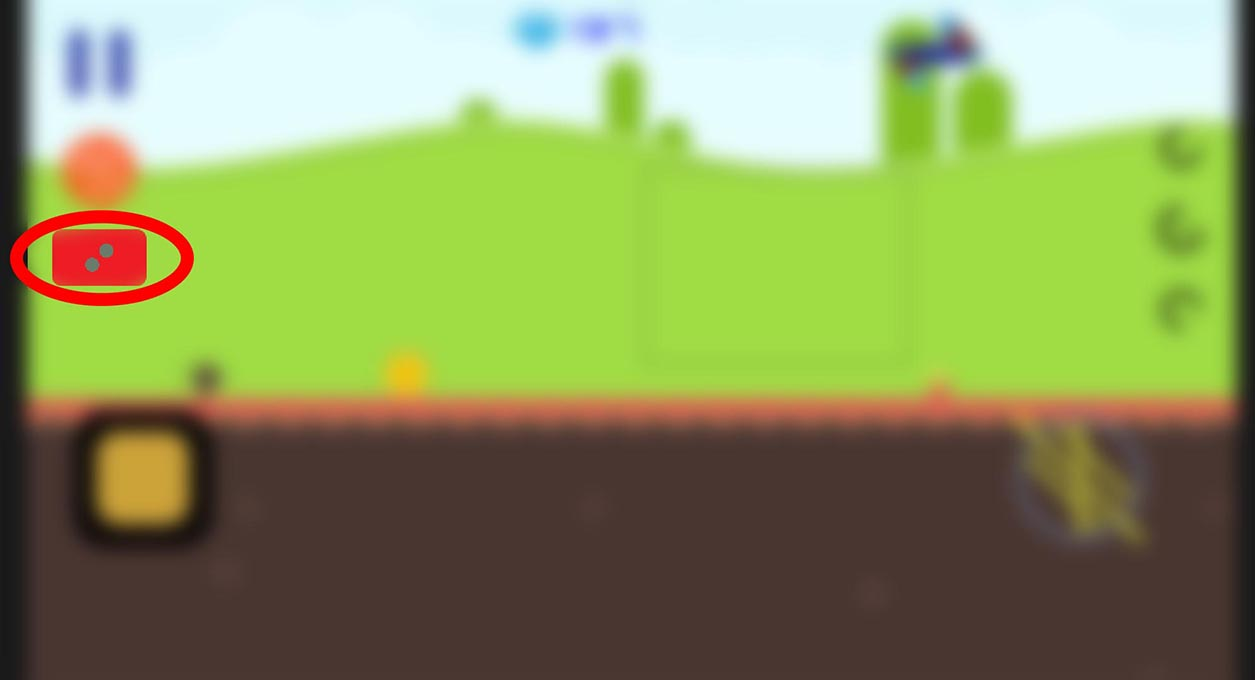
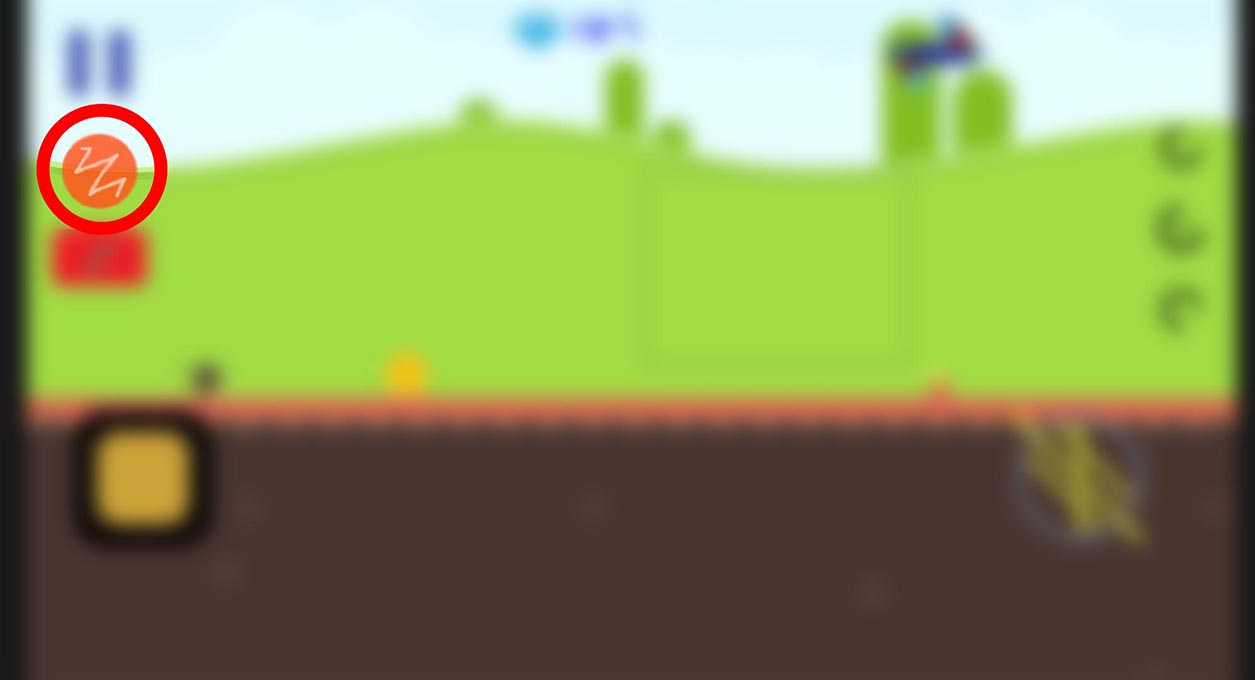
basic done

Changed region(s): [[0.0, 0.1544, 0.1554, 0.4632]]

diff --git a/core/src/com/kunal/utils/slideShow/slideShowHelper.java b/core/src/com/kunal/utils/slideShow/slideShowHelper.java
@@ -8,7 +8,7 @@ public class slideShowHelper {
         if (code ==0) {
             // level wise classification
         }else if (code == 1){
-            ret = 40;
+            ret = 39;
         }
 
         return ret;
@@ -68,6 +68,36 @@ public class slideShowHelper {
                 msg = "                  Touch any grid and this faded yellow rectangle \n                                                      will appear to your choice.";
             }else if (focusImg == 24) {
                 msg = "              With the yellow rectangle at your shape touch this \n                                                        to move the shape to mainScreen";
+            }else if (focusImg == 25) {
+                msg = "Notice this will get enable. This means you can interact with shapes.\nTouch this to disable this and then you cant interact with shapes.";
+            }else if (focusImg == 26) {
+                msg = "                                        Touch this to toggle this on/off.";
+            }else if (focusImg == 27) {
+                msg = "           With this on touch anywhere the shape will be placed there.";
+            }else if (focusImg == 28) {
+                msg = "                                        Touch this to toggle this on/off.";
+            }else if (focusImg == 29) {
+                msg = "           Now drag your finger anywhere and shape will move accordingly.";
+            }else if (focusImg == 30) {
+                msg = "                                        This is used to rotate the shapes.";
+            }else if (focusImg == 31) {
+                msg = "                                    This is used rotate the shape clockwise.";
+            }else if (focusImg == 32) {
+                msg = "                             This is used rotate the shape anti-clockwise.";
+            }else if (focusImg == 33) {
+                msg = "                              This is used rotate the shape 45 deg anti-clockwise.";
+            }else if (focusImg == 34) {
+                msg = "        Press this is when you are ready to let bicycle come in action.";
+            }else if (focusImg == 35) {
+                msg = "                                          Camera will move to hard left.";
+            }else if (focusImg == 36) {
+                msg = "                                          Touch this to reset the level.";
+            }else if (focusImg == 37) {
+                msg = "                                      Touch this to have a  zoomed out view.";
+            }else if (focusImg == 38) {
+                msg = "                                                                 Like this.";
+            }else if (focusImg == 39) {
+                msg = "                                           Touch this to slow down bicycle.";
             }
         }
 
